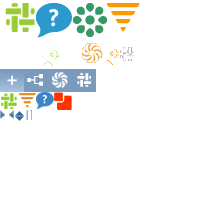
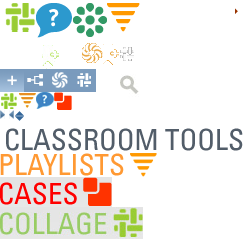
A few more sprites.

diff --git a/public/stylesheets/ui.css b/public/stylesheets/ui.css
@@ -46,11 +46,11 @@ footer { background:-moz-linear-gradient(top, #334552, #526572); background:-web
 #logo { float: left; display: inline; padding-right:9px; }
 #logo a { float: left; display: inline; width:71px; height:71px; background:url(/images/ui/logo.png); font-size: 0; line-height: 0; text-indent: -4000px;; }
 #playlists-logo { float: left; display: inline; }
-#playlists-logo a { float: left; display: inline; width:157px; height:26px; background:url(/images/ui/header-text.png) 0px -27px; font-size: 0; line-height: 0; text-indent: -4000px; margin-top: 22px; }
+#playlists-logo a { float: left; display: inline; width:157px; height:26px; background:url(/images/ui/app_icons.png) 0px -151px; font-size: 0; line-height: 0; text-indent: -4000px; margin-top: 22px; }
 #collage-logo { float: left; display: inline; }
-#collage-logo a { float: left; display: inline; width:143px; height:32px; background:url(/images/ui/header-text.png) 0px -84px; font-size: 0; line-height: 0; text-indent: -4000px; margin-top: 20px; }
+#collage-logo a { float: left; display: inline; width:143px; height:32px; background:url(/images/ui/app_icons.png) 0px -210px; font-size: 0; line-height: 0; text-indent: -4000px; margin-top: 20px; }
 #cases-logo { float: left; display: inline; }
-#cases-logo a { float: left; display: inline; width:112px; height:30px; background:url(/images/ui/header-text.png) 0px -53px; font-size: 0; line-height: 0; text-indent: -4000px;; margin-top: 20px; }
+#cases-logo a { float: left; display: inline; width:112px; height:30px; background:url(/images/ui/app_icons.png) 0px -177px; font-size: 0; line-height: 0; text-indent: -4000px;; margin-top: 20px; }
 
 #search { float: right; display: inline; padding:18px 14px 0 0; position:relative; }
 #search ul { list-style:none; position:relative; z-index:2; }
@@ -70,7 +70,7 @@ footer { background:-moz-linear-gradient(top, #334552, #526572); background:-web
 #search ul li.sorter .link-show { float: left; display: inline; width:24px; height:24px; background:url(/images/ui/sorter-show.png); font-size: 0; line-height: 0; text-indent: -4000px; }
 #search ul li.sorter .link-clear { float: left; display: inline; width:17px; background:url(/images/ui/sorter-clear.png) left center no-repeat; font-size: 0; line-height: 0; text-indent: -4000px; height:24px; }
 #search ul li.sorter p { float: left; display: inline; font-size:11px; color:#666; font-weight:bold; width:175px; padding-left:20px; background:url(/images/ui/sorter-p.png) no-repeat; }
-#search ul li.field {  background:#fff url(/images/ui/field.png) no-repeat; margin-left:15px; }
+#search ul li.field {  background:#fff url(/images/ui/app_icons.png) -110px -70px no-repeat; margin-left:15px; }
 #search ul li.field input { width:198px; height:16px; background:transparent; border:0; line-height:16px; padding:7px 10px 7px 35px; }
 
 #search .browse-tags-popup { display:none; position:absolute; background:#fff; border:1px solid #aaafb4; width:343px; padding:5px 4px 4px 5px; z-index:1; top:28px; left:9px; }
@@ -122,7 +122,7 @@ border-radius:4px; -moz-border-radius:4px;
 #results .sort .jsb { position:relative; height:20px; z-index:1; background:#ffd5a4; border:1px solid #ed9635; float: left; display: inline; }
 #results .sort .jsb { border-radius:4px; -moz-border-radius:4px; -webkit-border-radius:4px;  -o-border-radius:4px;  }
 #results .sort .jsb { width:103px !important; }
-#results .sort .jsb .jsb-currentItem { display:block; font-size:9px; line-height:20px; color:#930; font-weight:bold; padding:0 8px; background:url(/images/ui/results-sort-select.png); }
+#results .sort .jsb .jsb-currentItem { display:block; font-size:9px; line-height:20px; color:#930; font-weight:bold; padding:0 8px; background:url(/images/ui/app_icons.png) -142px -1px no-repeat; }
 #results .sort .jsb .jsb-moreButton { position:absolute; top:0; left:0; width:103px; height:20px; cursor:pointer; background:url(/images/ui/transparent.gif); }
 #results .sort .jsb .jsb-list { position:absolute; top:20px; left:-1px; width:103px !important; background:#ffd5a4; border:1px solid #ed9635; overflow:auto; }
 #results .sort .jsb .jsb-list { border-radius:4px; -moz-border-radius:4px; -webkit-border-radius:4px;  -o-border-radius:4px; display:none; }
@@ -174,7 +174,7 @@ div.star-rating{background:transparent!important;overflow:hidden!important}
 /* Home Page */
 #bbase header { height: 106px; padding-top: 30px; }
 #homepage-logo { float: left; display: inline; margin-top: 20px; }
-#homepage-logo a { float: left; display: inline; width:249px; height:29px; background:url(/images/ui/header-text.png); font-size: 0; line-height: 0; text-indent: -4000px; }
+#homepage-logo a { float: left; display: inline; width:249px; height:29px; background:url(/images/ui/app_icons.png) 0px -124px; font-size: 0; line-height: 0; text-indent: -4000px; }
 .search_all form { padding-right: 50px; }
 .search_all #radios { clear: both; padding: 10px 0px 0px 20px; }
 .search_all p { color: #666; float: left; width: 140px; margin: 0px; font-size: 9pt; }
